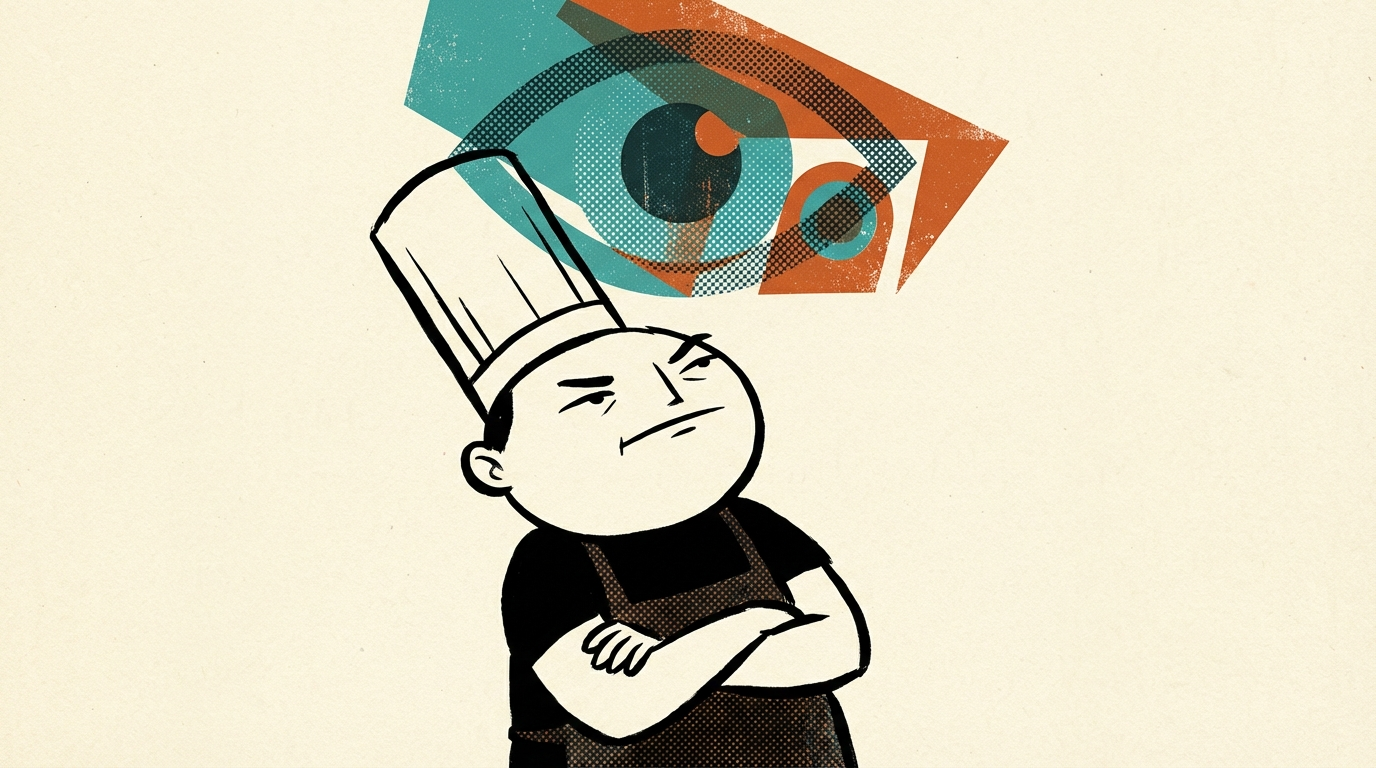
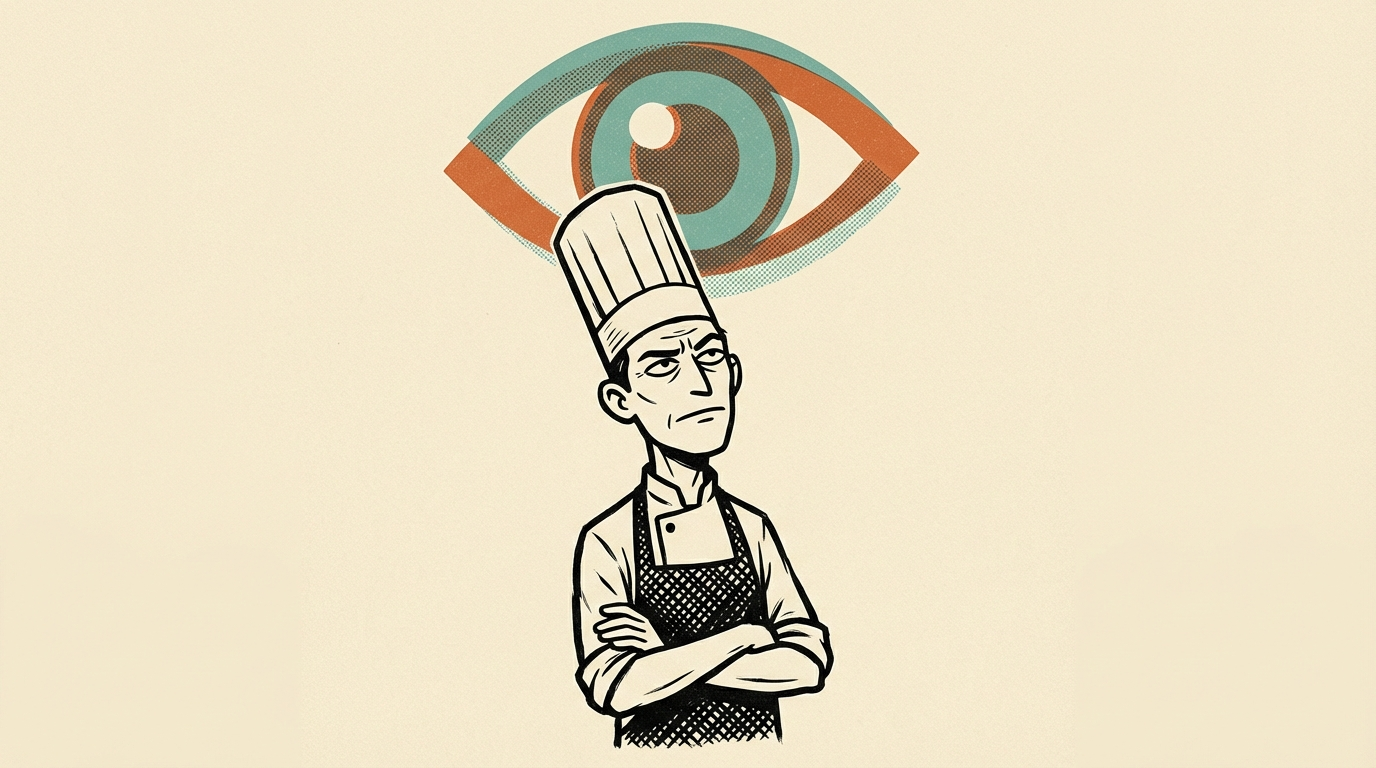
Replace inconsistent chef illustration + remove artist reference
- Swapped fat chef with lean figure matching other illustrations
- Removed SANGNA TAKE name from style guide (internal reference only)

Changed region(s): [[0.25, 0.0, 0.75, 1.0], [0.3438, 0.3438, 0.375, 0.375]]

diff --git a/the-pass/public/illustration-guide.html b/the-pass/public/illustration-guide.html
@@ -392,7 +392,7 @@
         </div>
         <div class="detail-item">
           <div class="detail-icon check">&#10003;</div>
-          <div class="detail-text">受 SANGNA TAKE（桑拿大可）的態度感影響</div>
+          <div class="detail-text">人物有態度、有個性，不討好但讓人記住</div>
         </div>
         <div class="detail-item">
           <div class="detail-icon check">&#10003;</div>
@@ -577,8 +577,8 @@
       <h3>態度感</h3>
       <p>人物不害怕 AI，但他們也不覺得 AI 很厲害。他們的表情永遠帶著一點「嗯......你確定嗎？」的微妙懷疑。這是 The Pass 的人物簽名。</p>
 
-      <h3>靈感來源</h3>
-      <p>SANGNA TAKE（桑拿大可）的厭世但有個性的人物風格。不可愛，不寫實，而是在兩者之間——有足夠的細節讓你感受到態度，但不多到讓你注意到種族。</p>
+      <h3>風格定位</h3>
+      <p>不可愛，不寫實，而是在兩者之間——有足夠的細節讓你感受到態度，但不多到讓你注意到種族。厭世但有個性，帶著一點街頭感和獨立刊物的氣質。</p>
     </section>
 
     <hr class="section-sep">
